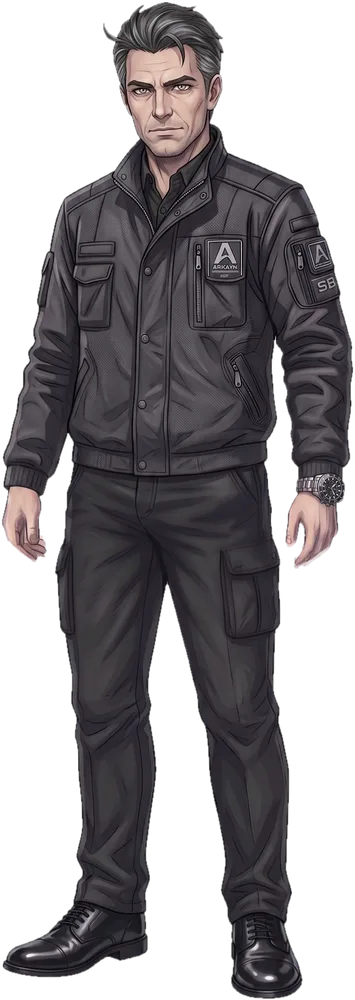
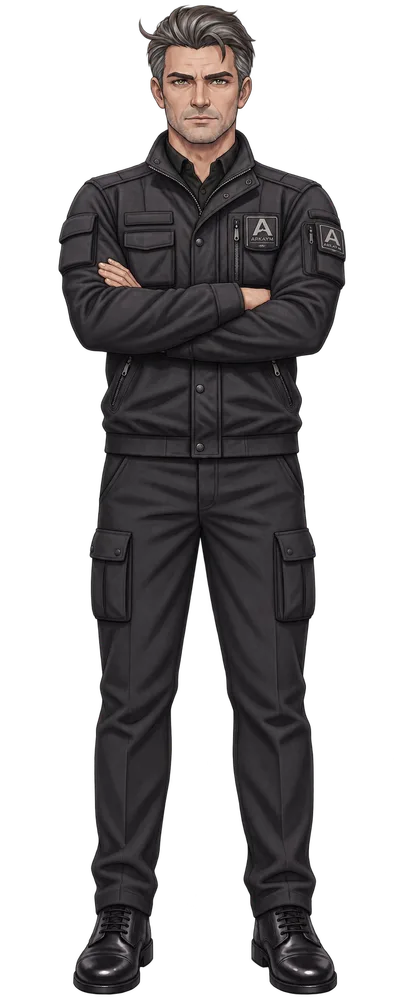
feat(landing): новая фигура Полковника (под спойлером)

diff --git a/tools/make_fullbody.py b/tools/make_fullbody.py
@@ -15,7 +15,7 @@ SRC = {
     'andrey':    'Андрей Климов/Седовласый мужчина с кожаной сумкой.png',
     'albina':    'Альбина Климова/Женщина-инженер с чертежами.png',
     'panov':     'Майор Панов/Gemini_Generated_Image_ipwgc2ipwgc2ipwg-Photoroom.png',
-    'polkovnik': 'Александр Северов/Gemini_Generated_Image_hc6gtmhc6gtmhc6g.jpg',
+    'polkovnik': 'Александр Северов/Уверенный руководитель безопасности ARKAYM.png',
     'serega':    'Сергей Логинов/Gemini_Generated_Image_e3p8fae3p8fae3p8-Photoroom.png',
     'mihalych':  'Егор Михалыч/Седой рабочий космодрома Аркаим.png',
     'vladimir':  'Владимир/Пожилой мастер с инструментами.png',
